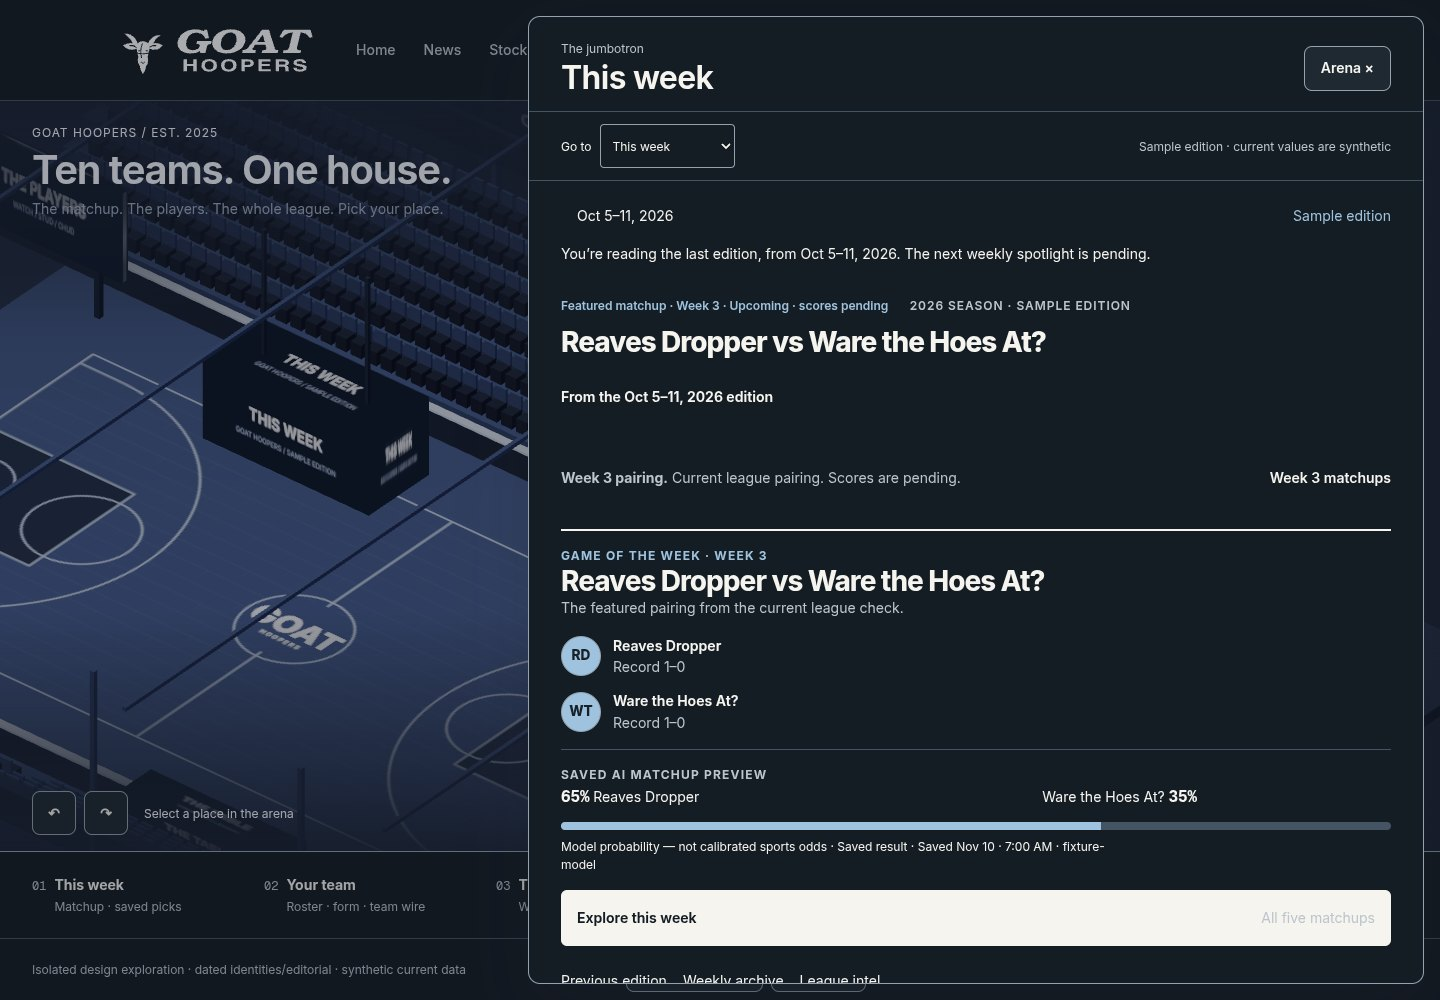
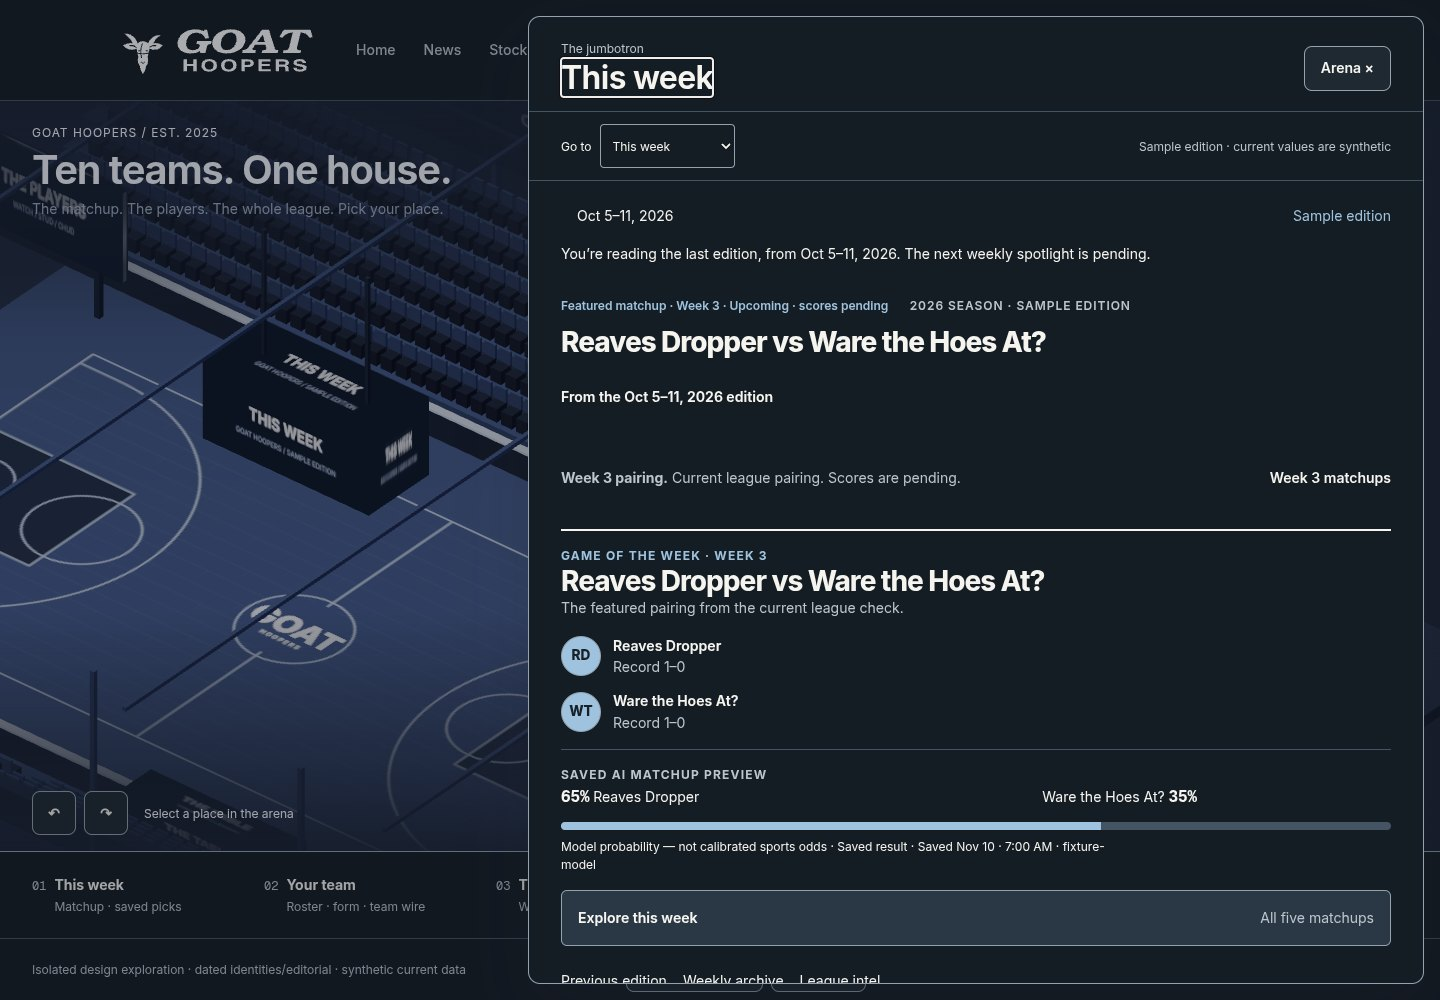
Record themed action contrast and refreshed reader evidence

Changed region(s): [[0.375, 0.868, 0.9688, 0.961]]

diff --git a/qa/arena-prototype/hub/README.md b/qa/arena-prototype/hub/README.md
@@ -82,3 +82,11 @@ hierarchy and open rows, and avoid decorative nested cards. It is not a template
 for this arena. No external skill/hooks/package or automated Hallmark run was
 installed. This prototype's current images are in hub/review; older study
 captures outside that folder remain prior-concept references only.
+
+A final scoped reader-action correction replaces an inherited inverted strip
+whose secondary label lost contrast in dark mode. Actual public matchup
+readers at 1440/390 in both themes now measure secondary-label contrast
+6.89:1 dark / 4.87:1 light; activation still scrolls to saved picks and Escape
+returns to the arena. Action-contrast receipts and recaptured affected views
+are stored beside the base 18-case interaction receipt. Runtime source IDs
+and each image's capture source are explicit in artifacts.json.
